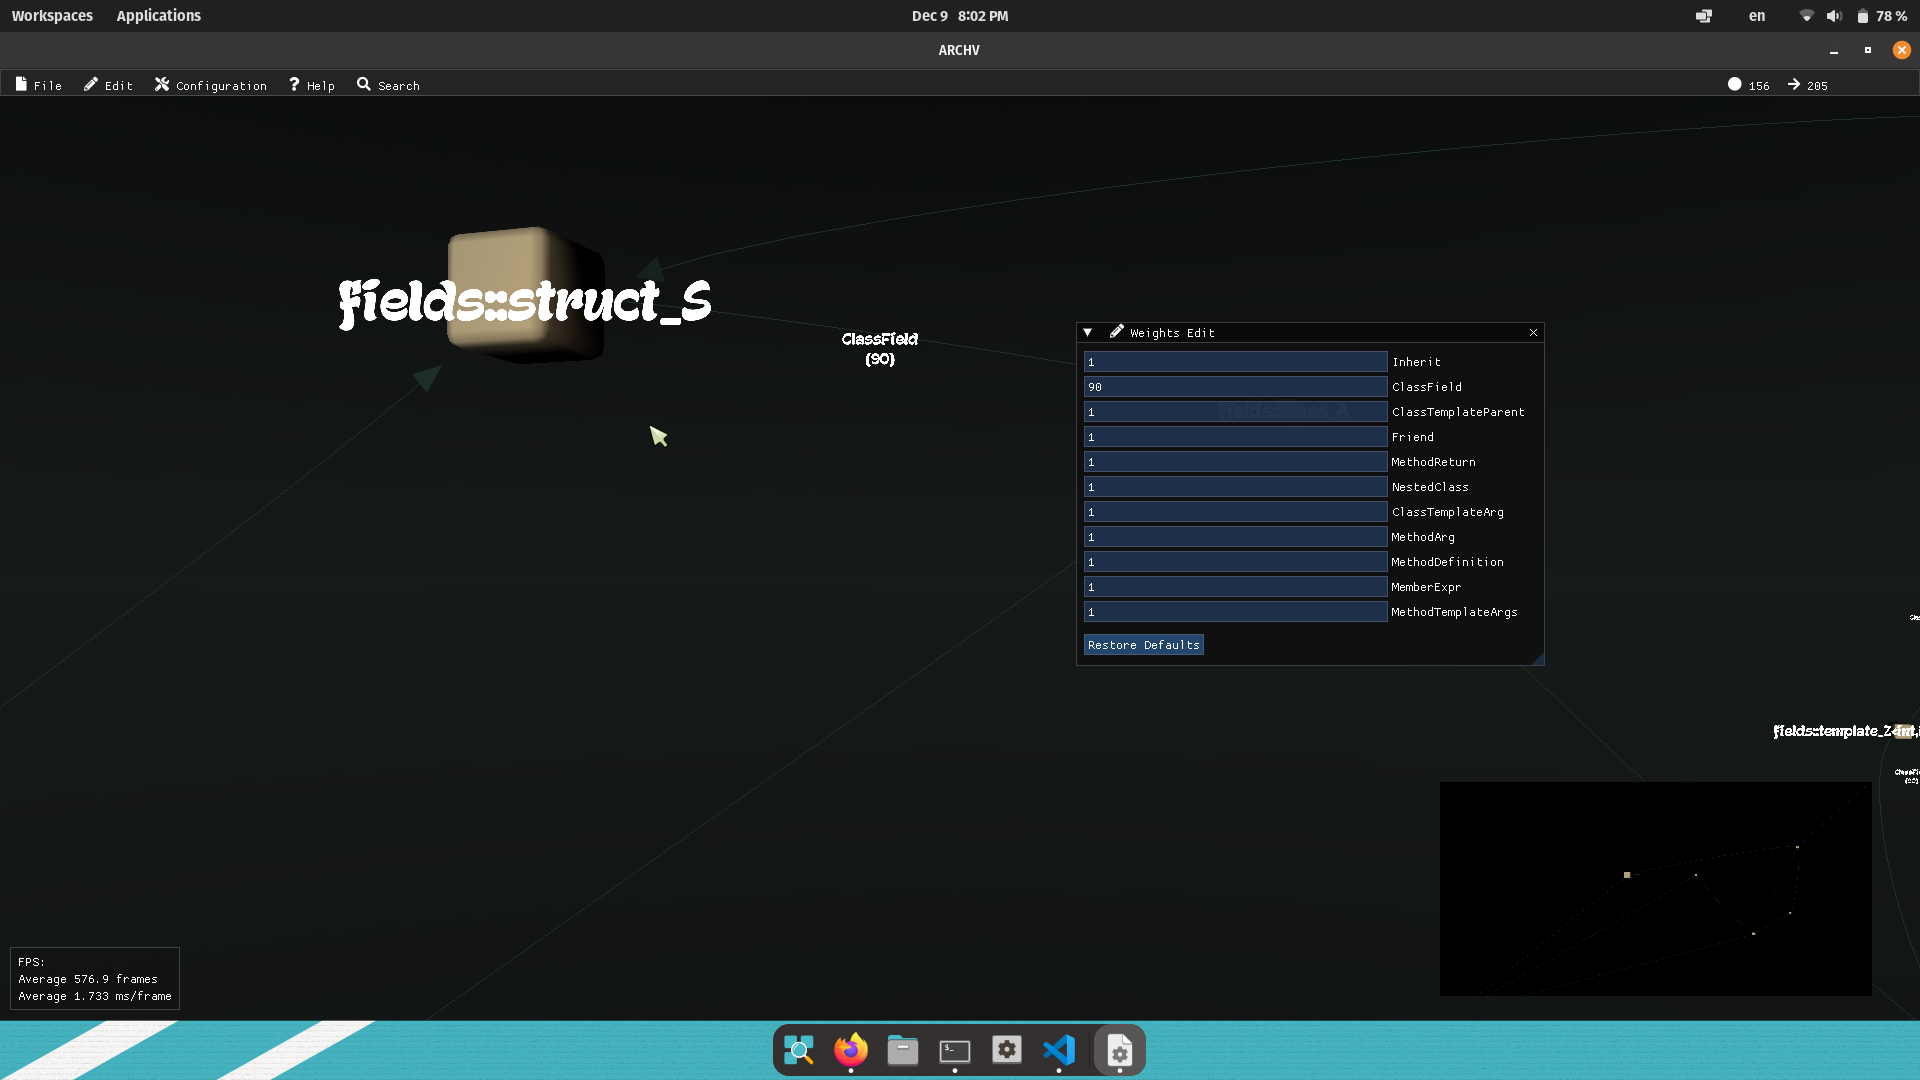
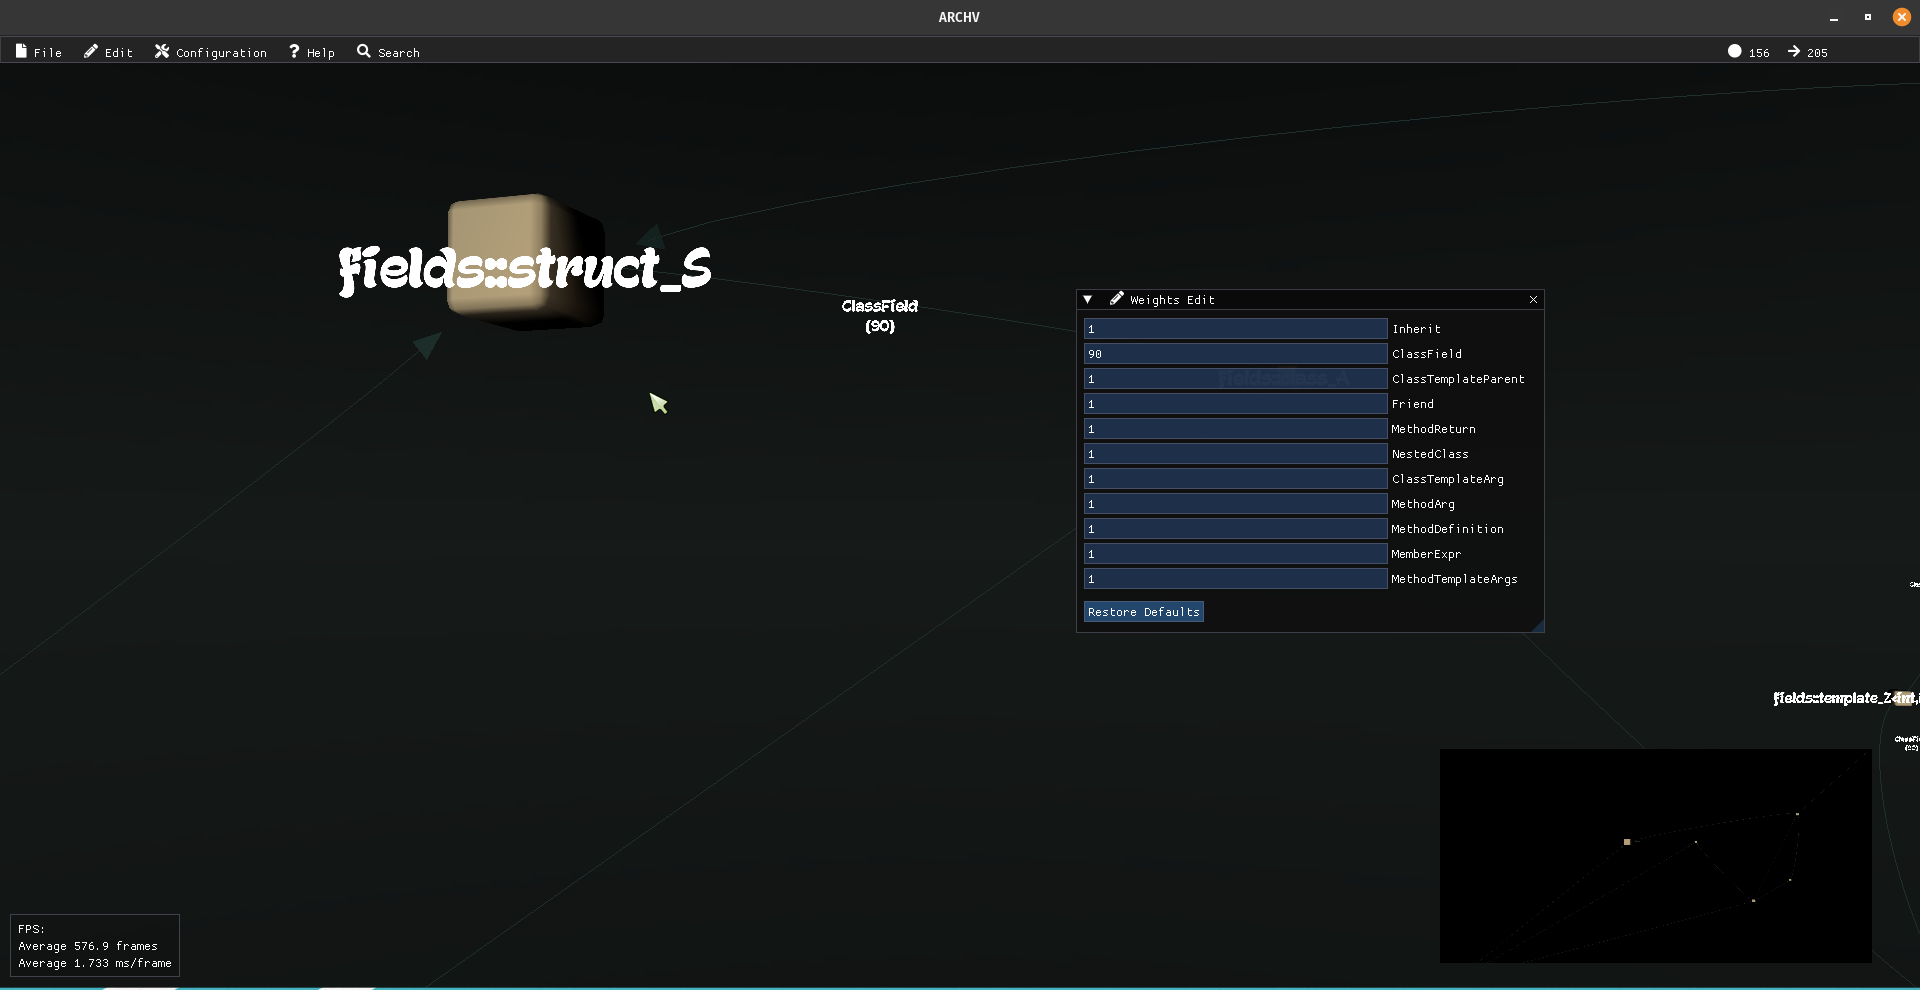
more features documented at readme

diff --git a/README.md b/README.md
@@ -20,6 +20,11 @@ tables, in the form of a 3D graph.
 | ![](data/screenshots/class_info_inspection.png) | ![](data/screenshots/procedural_edge_curves.png) |
 
 
+| Layout & topology editing | Edge weight editing
+|----|----|
+| ![](data/screenshots/layout_n_topology_editing.png) | ![](data/screenshots/edge_weight_editing.png) |
+
+
 ## Usage
 
 
